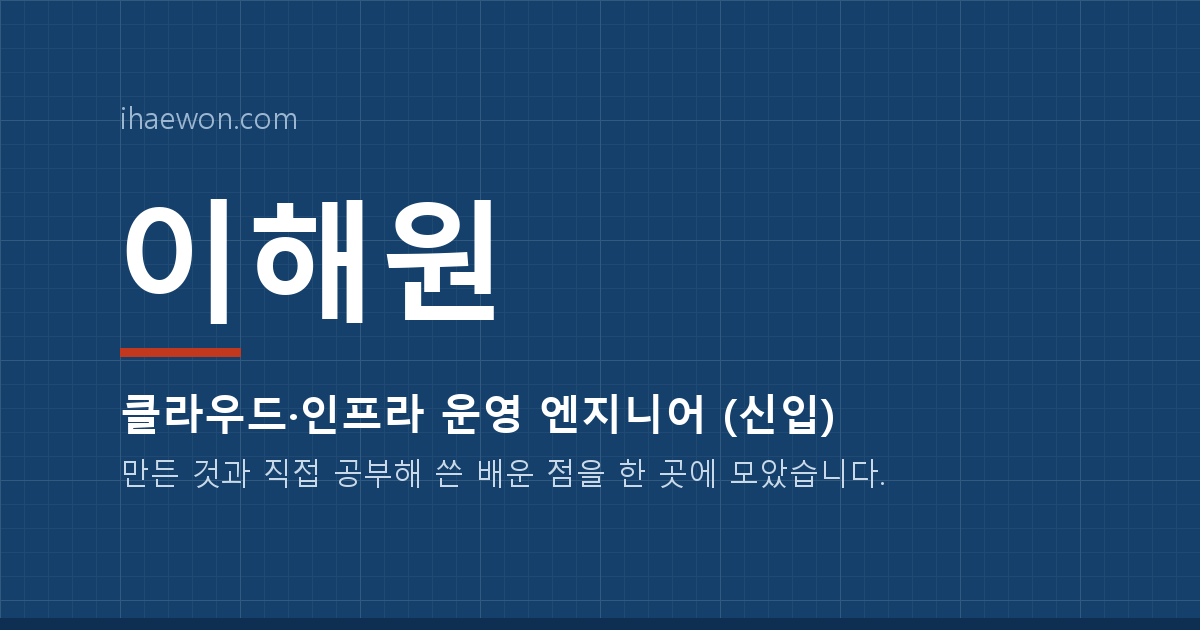
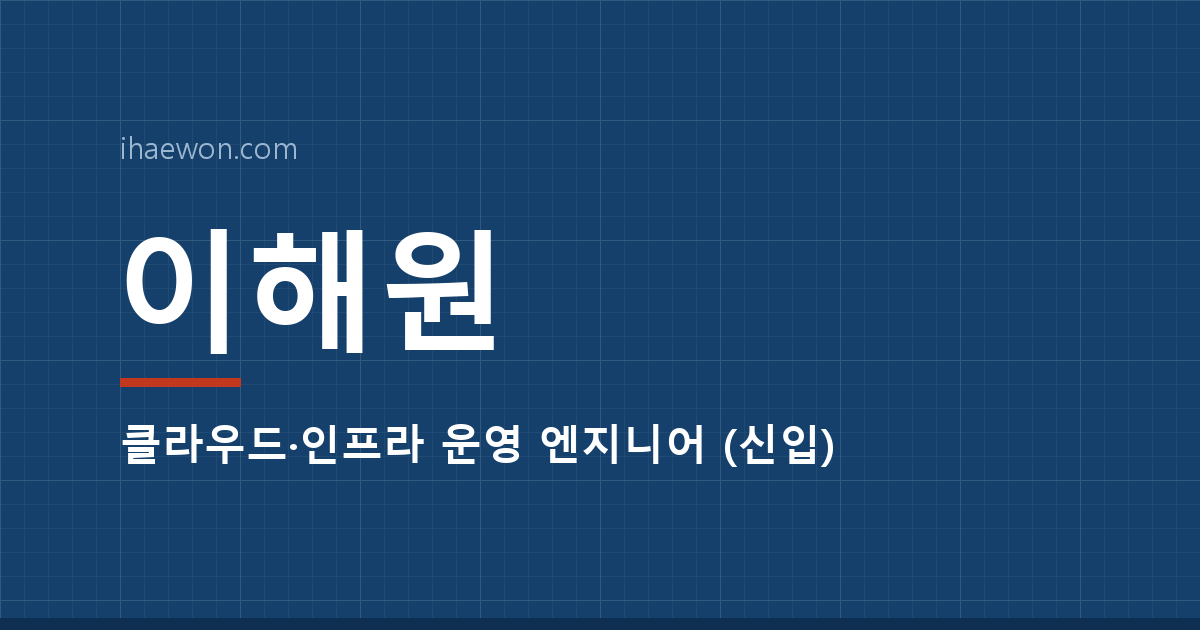
문구: 자기 지칭·포장 말투 정리, '직접' 남용과 영어식 줄표 줄이기
'이 사이트', '집 서버', '제 방', '지금 보고 계신 페이지'를 ihaewon.com·Proxmox 홈랩 같은
실제 이름으로 바꾸고, '직접'은 배운 점을 구분하는 곳에만 남겼다. 내용(사실)은 바꾸지 않았다.
문구 점검 AI 말투 후보 26 → 4.

Changed region(s): [[0.0925, 0.5127, 0.74, 0.7841], [0.0925, 0.3016, 0.4317, 0.573], [0.0925, 0.181, 0.2467, 0.2714]]

diff --git a/layouts/_partials/node.html b/layouts/_partials/node.html
@@ -8,7 +8,7 @@
   {{- if $p.Params.preview }}
   <p>{{ $p.Params.status }} · {{ $p.Params.role }}</p>
   {{- else }}
-  <p>{{ $p.Params.status }}{{ with $p.Params.period }} · {{ . }}{{ end }}{{ if $p.Params.here }} · {{ i18n "nodeHere" }}{{ end }}</p>
+  <p>{{ $p.Params.status }}{{ with $p.Params.period }} · {{ . }}{{ end }}</p>
   {{- end }}
   {{- if or $p.Params.relations $a.label }}
   <div class="rel">{{ with $a.label }}<a class="vmtag" href="#{{ . | urlize }}">{{ $a.via | default (i18n "vmVia") }} → <b>{{ . }}</b></a>{{ end }}{{ range $p.Params.relations }}<span>{{ . }}</span>{{ end }}</div>

diff --git a/docs/copy-review.md b/docs/copy-review.md
@@ -8,69 +8,25 @@
 
 ## 2. 오타 후보 (노션 원문 포함, 고칠지는 직접 판단) (8건)
 
-- `content/notes/aws-06-terraform/index.md:416` — **바뀜다** → 바뀐다
-- `content/notes/aws-08-docker-ecs/index.md:674` — **없앱다** → 없앤다
-- `content/notes/aws-08-docker-ecs/index.md:674` — **서브티** → 서브넷
-- `content/notes/aws-09-cloudwatch/index.md:73` — **바뀜다** → 바뀐다
-- `content/notes/aws-09-cloudwatch/index.md:145` — **곷** → 곧
-- `content/notes/aws-01-ec2-nginx/learned.md:9` — **설지** → 설치
-- `content/notes/aws-05-alb-asg/learned.md:8` — **트랙픽** → 트래픽
-- `content/notes/homelab-03-site-deploy/learned.md:35` — **되도** → 돼도
+- `content\notes\aws-06-terraform\index.md:416` — **바뀜다** → 바뀐다
+- `content\notes\aws-08-docker-ecs\index.md:674` — **없앱다** → 없앤다
+- `content\notes\aws-08-docker-ecs\index.md:674` — **서브티** → 서브넷
+- `content\notes\aws-09-cloudwatch\index.md:73` — **바뀜다** → 바뀐다
+- `content\notes\aws-09-cloudwatch\index.md:145` — **곷** → 곧
+- `content\notes\aws-01-ec2-nginx\learned.md:9` — **설지** → 설치
+- `content\notes\aws-05-alb-asg\learned.md:8` — **트랙픽** → 트래픽
+- `content\notes\homelab-03-site-deploy\learned.md:35` — **되도** → 돼도
 
-## 3. AI 말투 후보 (사이트 문구만) (26건)
+## 3. AI 말투 후보 (사이트 문구만) (4건)
 
-- `i18n/ko.toml:11` — '직접' 반복. 정말 강조할 곳만 남기기
-  > other = "이 사이트는 Hugo로 만들어, 제 방 미니PC의 Proxmox VM에서 직접 운영합니다. 상태 표시는 실시간 조회가 아니라 직접 갱신하는 기록입니다."
-- `i18n/ko.toml:67` — '직접' 반복. 정말 강조할 곳만 남기기
-  > other = "직접 확인한 결과"
-- `i18n/ko.toml:75` — '직접' 반복. 정말 강조할 곳만 남기기
-  > other = "직접 표시"
-- `i18n/ko.toml:99` — '직접' 반복. 정말 강조할 곳만 남기기
-  > other = "정리된 과정을 다시 보면서 제가 이해한 내용을 직접 썼습니다. 초록색 박스로 따로 표시했습니다."
-- `i18n/ko.toml:125` — '직접' 반복. 정말 강조할 곳만 남기기
+- `i18n\ko.toml:139` — '직접' 반복. 정말 강조할 곳만 남기기
   > other = "직접 작성"
-- `i18n/ko.toml:129` — '직접' 반복. 정말 강조할 곳만 남기기
+- `i18n\ko.toml:143` — '직접' 반복. 정말 강조할 곳만 남기기
   > other = "직접 쓴 배운 점"
-- `i18n/ko.toml:133` — '직접' 반복. 정말 강조할 곳만 남기기
+- `i18n\ko.toml:147` — '직접' 반복. 정말 강조할 곳만 남기기
   > other = "진행 과정은 실습 내용을 AI와 함께 정리했고, 배운 점은 그걸 보고 제가 이해한 대로 직접 썼습니다."
-- `i18n/ko.toml:137` — '직접' 반복. 정말 강조할 곳만 남기기
-  > other = "직접 정리한 배운 점"
-- `i18n/ko.toml:159` — '직접' 반복. 정말 강조할 곳만 남기기
-  > other = "직접 해본 것"
-- `hugo.toml:11` — '~해두었습니다' 반복은 소개문 티가 남
-  > intro = "제가 만든 것들이 서로 어떻게 이어지는지 그려두었습니다."
-- `hugo.toml:11` — 추상적인 표현. 무엇이 무엇으로 이어지는지 구체적으로
-  > intro = "제가 만든 것들이 서로 어떻게 이어지는지 그려두었습니다."
-- `content/projects/_index.md:3` — '직접' 반복. 정말 강조할 곳만 남기기
-  > summary: "직접 만들고 운영한 것들. 분류와 연결 관계로 볼 수 있습니다."
-- `content/projects/aws-infra/index.md:14` — '직접' 반복. 정말 강조할 곳만 남기기
-  > why: "콘솔에서 서버 한 대를 띄우는 것부터 시작해, 서버를 늘리고 코드로 만들고 컨테이너로 옮기고 감시하는 과정을 한 단계씩 직접 해봤습니다."
-- `content/projects/career-navi/index.md:20` — 영어식 줄표(em dash). 한국어 문장에선 쉼표나 마침표로
-  > - "역할 분담: 진단 결과 JSON 하나를 경계로 나눔 — 웹 서비스(FastAPI·DB·API·React)와 배포·운영(본인) / AI 파이프라인(데이터·LLM·RAG·판정 엔진·What-If, 팀원)"
-- `content/projects/homelab/index.md:15` — '직접' 반복. 정말 강조할 곳만 남기기
+- `content\projects\homelab\index.md:15` — '직접' 반복. 정말 강조할 곳만 남기기
   > why: "AWS에서 매니지드 서비스가 대신 해주던 서버, 네트워크, 접속 관리, 배포를 직접 구성해보면서 그 서비스들이 무엇을 대신하는지 확인하려고 시작했습니다."
-- `content/projects/portfolio-site/index.md:3` — '직접' 반복. 정말 강조할 곳만 남기기
-  > summary: "Hugo로 만든 정적 사이트를 홈랩 VM의 Docker Nginx 컨테이너에서 직접 운영합니다. 지금 보고 계신 페이지입니다."
-- `content/projects/portfolio-site/index.md:15` — '직접' 반복. 정말 강조할 곳만 남기기
-  > why: "만든 것과 겪은 문제를 한곳에 쌓아두고, 그 사이트 자체도 직접 운영하는 서버 위에 올리려고 만들었습니다."
-- `content/projects/portfolio-site/index.md:33` — '~해두었습니다' 반복은 소개문 티가 남
-  > 배포 과정은 홈랩 3단계 기록과 같은 작업이라, 자세한 내용은 그 기록에 모아두었습니다.
-- `content/projects/yeoulmok/index.md:15` — 영어식 줄표(em dash). 한국어 문장에선 쉼표나 마침표로
-  > - "두 단계 경보 설계 — 상류 1시간 누적 강수량 기준 초과 시 사전 경보, 하류 직전 30분 수위 상승폭 기준 초과 시 즉시 경보"
-- `content/projects/yeoulmok/index.md:20` — 영어식 줄표(em dash). 한국어 문장에선 쉼표나 마침표로
-  > - "쓸 공공데이터 조사 — 한강홍수통제소 수위·유량·댐 방류, 기상청 레이더강수량, 산림청 산악기상"
-- `content/projects/yeoulmok/index.md:22` — 영어식 줄표(em dash). 한국어 문장에선 쉼표나 마침표로
-  > - "강릉과학산업진흥원 『My AI 랩 프로젝트』 선정 — 12월 최종 결과물 제출까지 개발"
-- `content/projects/yeoulmok/index.md:23` — 영어식 줄표(em dash). 한국어 문장에선 쉼표나 마침표로
-  > - "개발 서버 구성 — 홈랩 Proxmox에 서비스 전용 VM을 따로 두고 Docker 설치, API 키는 저장소 밖 서버 파일에만 두고 저장소에는 이름만 적은 양식 파일을 올림, GitHub 접근은 이 저장소 전
-- `content/projects/yeoulmok/index.md:26` — 영어식 줄표(em dash). 한국어 문장에선 쉼표나 마침표로
-  > - "대상 지역을 강원 영서권으로 좁힘 — 강릉은 동해안 수계라 한강홍수통제소 관측망 밖인 것 확인"
-- `content/projects/yeoulmok/index.md:27` — 영어식 줄표(em dash). 한국어 문장에선 쉼표나 마침표로
-  > - "도달시간을 공식으로 못 박지 않기로 함 — 소양강 중권역에 6개 공식을 적용하면 10~46시간까지 벌어진다는 선행연구 확인"
-- `content/notes/_index.md:3` — '직접' 반복. 정말 강조할 곳만 남기기
-  > summary: "AWS와 홈랩을 직접 구축하면서 단계별로 남긴 실습 로그입니다."
-- `content/learned/_index.md:3` — '직접' 반복. 정말 강조할 곳만 남기기
-  > summary: "각 단계를 마치고 제가 직접 정리한 배운 점만 모았습니다. 진행 과정은 기록에, 이해한 내용은 여기에 있습니다."
 
 ## 4. [작성 필요] 남은 곳 (0건)
 

diff --git a/content/projects/yeoulmok/index.md b/content/projects/yeoulmok/index.md
@@ -17,19 +17,19 @@ alsoOn:
 brief:
   why: "계곡에서는 이용자가 있는 곳에 비가 오지 않아도 상류 강우로 물이 불어납니다. 위험이 시작되는 지점과 피해가 생기는 지점이 떨어져 있어서, 현장에서 하늘과 물만 보고는 알아차릴 수 없습니다. 이미 공개된 관측 데이터로 그 시간차를 메울 수 있는지 확인하려고 시작했습니다."
   did:
-    - "두 단계 경보 설계 — 상류 1시간 누적 강수량 기준 초과 시 사전 경보, 하류 직전 30분 수위 상승폭 기준 초과 시 즉시 경보"
+    - "두 단계 경보 설계: 상류 1시간 누적 강수량 기준 초과 시 사전 경보, 하류 직전 30분 수위 상승폭 기준 초과 시 즉시 경보"
     - "절대 수위 대신 상승폭을 보도록 판정 기준 정의. 같은 수위도 평시에 머문 것과 30분 만에 올라온 것은 다르게 처리"
     - "경보 화면에 관측소명·관측 시각·실측값·기준값을 함께 띄우도록 설계. 숫자 없는 '위험' 표시는 쓰지 않음"
     - "관측 지연·결측 시 마지막 값을 현재값으로 쓰지 않고 '자료 지연 · 판정 불가'로 표시, 결측만으로 기발령 경보를 해제하지 않도록 규칙 정의"
     - "판정은 규칙 엔진, 설명은 생성형 AI로 역할 분리. AI 응답의 수치·단계가 원자료와 일치하는지 검사하고 실패 시 고정 문구로 대체"
-    - "쓸 공공데이터 조사 — 한강홍수통제소 수위·유량·댐 방류, 기상청 레이더강수량, 산림청 산악기상"
+    - "쓸 공공데이터 조사: 한강홍수통제소 수위·유량·댐 방류, 기상청 레이더강수량, 산림청 산악기상"
     - "2026 AI·디지털 기반 사회문제 해결 챌린지 출품(서류 탈락) 후 설계를 보완해 이어가는 중"
-    - "강릉과학산업진흥원 『My AI 랩 프로젝트』 선정 — 12월 최종 결과물 제출까지 개발"
-    - "개발 서버 구성 — 홈랩 Proxmox에 서비스 전용 VM을 따로 두고 Docker 설치, API 키는 저장소 밖 서버 파일에만 두고 저장소에는 이름만 적은 양식 파일을 올림, GitHub 접근은 이 저장소 전용 배포 키로 제한"
+    - "강릉과학산업진흥원 『My AI 랩 프로젝트』 선정, 12월 최종 결과물 제출까지 개발"
+    - "개발 서버 구성: 홈랩 Proxmox에 서비스 전용 VM을 따로 두고 Docker 설치, API 키는 저장소 밖 서버 파일에만 두고 저장소에는 이름만 적은 양식 파일을 올림, GitHub 접근은 이 저장소 전용 배포 키로 제한"
   verified:
     - "한강홍수통제소·기상청·산림청 API가 전부 무료이고 개발계정 일 1,000건 한도인 것 확인"
-    - "대상 지역을 강원 영서권으로 좁힘 — 강릉은 동해안 수계라 한강홍수통제소 관측망 밖인 것 확인"
-    - "도달시간을 공식으로 못 박지 않기로 함 — 소양강 중권역에 6개 공식을 적용하면 10~46시간까지 벌어진다는 선행연구 확인"
+    - "대상 지역을 강원 영서권으로 좁힘. 강릉은 동해안 수계라 한강홍수통제소 관측망 밖인 것 확인"
+    - "도달시간을 공식으로 못 박지 않기로 함. 소양강 중권역에 6개 공식을 적용하면 10~46시간까지 벌어진다는 선행연구 확인"
     - "영서권 실제 사고 사례 확인 (2025.7 원주 판부면, 2019.8 횡성 갑천면)"
     - "개발 서버에서 한강홍수통제소(수위 관측소 제원)와 기상청(관측 강수·수치모델 예보) API를 실제로 호출해 응답 확인"
     - "기상청 관측값은 요청 시각보다 약 4분 늦게 올라오고 결측은 -99.9로 온다는 것 확인 → 수집은 현재 시각보다 몇 분 앞을 기준으로 하고, 결측은 0이 아니라 판정 불가로 처리"

diff --git a/content/projects/homelab/index.md b/content/projects/homelab/index.md
@@ -22,7 +22,7 @@ brief:
     - "Prometheus·Grafana로 서버 통합 모니터링(처음 4대 기준), 서버다운·디스크·메모리·CPU 알림 규칙"
   verified:
     - "집 밖 맥북에서 Tailscale 주소로 각 VM에 SSH 접속"
-    - "이 사이트가 VM 100의 Docker Nginx 컨테이너에서 서빙됨"
+    - "ihaewon.com이 VM 100의 Docker Nginx 컨테이너에서 서빙됨"
     - "공유기 포트를 열지 않고 Cloudflare Tunnel로 ihaewon.com 외부 공개, 외부 네트워크에서 접속 확인"
     - "Prometheus targets 화면에서 서버 4대 전부 UP, 울리는 알림 0 확인 (10.13)"
 servers:
@@ -33,7 +33,7 @@ servers:
     state: "가동 중"
   access: "Tailscale 내부망 · 공유기 포트 개방 없음"
   vms:
-    - { id: "VM 100", name: "portfolio", spec: "4코어 / RAM 4GB / 디스크 38GB", role: "이 사이트를 Docker Nginx로 서빙. 처음 만든 VM. 미니PC RAM 16GB를 다른 VM과 나눠 써야 해서 4GB만 배정. 설치 기본값(LVM)이 루트를 18.5GB만 잡아서 lvextend로 38GB까지 늘림. Tailscale·SSH 키 로그인·Docker를 세팅하고 스냅샷을 남긴 뒤 이후 VM도 같은 순서로 만듦.", here: true }
+    - { id: "VM 100", name: "portfolio", spec: "4코어 / RAM 4GB / 디스크 38GB", role: "ihaewon.com을 Docker Nginx로 서빙. 처음 만든 VM. 미니PC RAM 16GB를 다른 VM과 나눠 써야 해서 4GB만 배정. 설치 기본값(LVM)이 루트를 18.5GB만 잡아서 lvextend로 38GB까지 늘림. Tailscale·SSH 키 로그인·Docker를 세팅하고 스냅샷을 남긴 뒤 이후 VM도 같은 순서로 만듦.", here: true }
     - { id: "VM 101", name: "산학 서버", spec: "4코어 / RAM 6GB / 디스크 39GB", role: "산학 프로젝트 팀 테스트 서버. 팀원은 이 VM에만 접속. 10.28 팀 서버 이전 후 중지. 부하테스트를 해야 해서 portfolio보다 메모리를 6GB로 더 줌. portfolio에서 겪은 걸 반영해 설치 때 LVM을 끄고 처음부터 39GB 전부 사용. 공개 데이터만 두고, 환자 6~100명 부하테스트와 Prometheus·Grafana 모니터링을 이 VM에서 진행.", off: true }
     - { id: "VM 102", name: "paper", spec: "2코어 / RAM 1GB / 디스크 20GB", role: "논문 실측 데이터 수집 (cron). 10.26 수집 종료 후 중지. cron으로 10분마다 API를 부르는 일 하나만 해서 자원을 최소로 배정. 실측 기록이 다른 작업에 섞이지 않게 VM을 따로 둠. 수집을 끝낸 뒤 데이터를 백업하고 중지, 학술대회 발표 후 삭제 예정.", off: true }
     - { id: "VM 103", name: "careernavi", spec: "2코어 / RAM 4GB / 디스크 28GB", role: "커리어 내비 팀 개발 서버. 팀원 계정과 Tailscale 공유는 이 VM 하나만. RAM 4GB는 FastAPI·Nginx·PostgreSQL에 한국어 임베딩 모델(약 2GB)과 여유분을 더해 잡음. 루트가 13.67GB만 잡혀 있어 lvextend로 28GB까지 늘림. docker 그룹이 사실상 관리자 권한이라 이 VM에는 이 프로젝트만 둠.", }

diff --git a/docs/design-handoff.md b/docs/design-handoff.md
@@ -92,3 +92,4 @@
 - 6차: 홈 순서를 첫 화면 → 프로젝트 지도 → 직접 쓴 배운 점 → 쓰는 도구로 바꿨다. '직접 쓴 배운 점'(`learned-home.html`)은 일하는 방식 두 문장을 머리말로 두고, 공개 프로젝트마다 가장 최근 learned.md를 하나씩(최대 4개) 보여준다. 노션에서 배운 점을 추가하면 자동으로 바뀐다. 기존 `principles.html`은 삭제.
 - 7차: 홈 배운 점 카드는 21편을 모두 HTML에 넣고, 새로고침마다 작은 스크립트가 무작위로 4편을 고른다(한 프로젝트 최대 2편, `data-show`/`data-per`). 스크립트가 안 돌면 프로젝트마다 최근 1편. 프로젝트 상세에는 제목 아래 '배운 점 n편 바로가기'와 오른쪽 맨 위 '직접 쓴 배운 점' 상자를 추가했다(배운 점이 있는 프로젝트만).
 - 8차: 링크 미리보기용 og 태그(`baseof.html`)와 공유 이미지 `assets/img/og.png`(1200×630, 청사진 바탕·이름·직무, 맑은 고딕으로 생성) 추가. 대표 이미지가 없을 때 카카오톡이 증명사진을 가져가던 문제 해결.
+- 9차(문구): 'GPT스럽다'는 피드백. '이 사이트·집 서버·제 방·지금 보고 계신 페이지' 같은 자기 지칭과 포장 말투를 사실 그대로의 이름(ihaewon.com, Proxmox 홈랩 VM 100)으로 바꿨다. '직접'은 배운 점 구분(배지·칸 이름·안내문)과 홈랩 소개에만 남기고, 프로젝트 글의 영어식 줄표(—)는 쉼표·마침표·쌍점으로 바꿨다. check_copy AI 말투 후보 26 → 4(남은 4개는 의도적). 공유 이미지에서 소개 문장 삭제.

diff --git a/content/projects/portfolio-site/index.md b/content/projects/portfolio-site/index.md
@@ -1,6 +1,6 @@
 ---
-title: "이 포트폴리오 사이트"
-summary: "Hugo로 만든 정적 사이트를 홈랩 VM의 Docker Nginx 컨테이너에서 직접 운영합니다. 지금 보고 계신 페이지입니다."
+title: "ihaewon.com 포트폴리오 사이트"
+summary: "Hugo로 만든 정적 사이트(ihaewon.com)를 홈랩 VM 100의 Docker Nginx 컨테이너에서 운영합니다."
 role: "개인 프로젝트"
 status: "진행 중"
 category: "인프라"
@@ -12,7 +12,7 @@ mapLabel: "vm 100"
 runsOn: "homelab"
 here: true
 brief:
-  why: "만든 것과 겪은 문제를 한곳에 쌓아두고, 그 사이트 자체도 직접 운영하는 서버 위에 올리려고 만들었습니다."
+  why: "만든 것과 겪은 문제를 한곳에 쌓아두고, 그 사이트도 홈랩 서버에서 운영하려고 만들었습니다."
   did:
     - "Hugo로 사이트 구성, GitHub 저장소로 관리"
     - "VM 100에서 빌드 결과를 Nginx 컨테이너가 읽기 전용으로 서빙"
@@ -30,4 +30,4 @@ draft: false
 
 ## 개요
 
-배포 과정은 홈랩 3단계 기록과 같은 작업이라, 자세한 내용은 그 기록에 모아두었습니다.
+배포 과정은 홈랩 3단계 기록과 같은 작업이라 자세한 내용은 그 기록에 있습니다.

diff --git a/content/about.md b/content/about.md
@@ -46,7 +46,7 @@ profile:
   activities:
     - { period: "2026.09 ~", title: "AI 산학프로젝트 (팀장)", note: "서버 구조(TCP 수신, Redis Streams, 워커) 설계" }
     - { period: "2026.09 ~", title: "융합캡스톤디자인 (Frozen Stiff)", note: "게임 접속 솔루션 검증, 플레이 기록 수집 서버, 빌드·배포 자동화 담당" }
-    - { period: "2026.09 ~", title: "홈 서버 운영, 이 포트폴리오 사이트", note: "Proxmox 위에 Ubuntu VM을 운영하고, Tailscale 원격 접속과 Docker Nginx·Cloudflare Tunnel로 사이트를 공개" }
+    - { period: "2026.09 ~", title: "Proxmox 홈랩 운영, ihaewon.com 포트폴리오 사이트", note: "Proxmox 위에 Ubuntu VM을 운영하고, Tailscale 원격 접속과 Docker Nginx·Cloudflare Tunnel로 사이트를 공개" }
     - { period: "2026.07 ~", title: "AWS 인프라 구축 실습", note: "EC2·Nginx부터 VPC, ALB, Terraform, ECS Fargate, CloudWatch까지. 장애를 로그로 추적해 기록" }
     - { period: "2026 여름", title: "연세대 AI부트캠프 의료AI응용", note: "비정형데이터분석, AI기반건강보험빅데이터분석, 의료버티컬AI에이전트 수료" }
 links:

diff --git a/content/projects/career-navi/index.md b/content/projects/career-navi/index.md
@@ -23,7 +23,7 @@ brief:
     - "LLM은 경험 카드화와 역량 추출만 맡기고, 충족 여부와 적합도 점수는 규칙 기반 코드로 계산하도록 설계 (환각 방지, 점수 기준 공개)"
     - "모든 판정에 '공고 문장 – 내 경험 문장' 근거를 함께 보여주고, 근거가 부족하면 '판단 보류'로 안내하도록 설계"
     - "검증 계획: 실제 공고 50건의 역량 추출 결과를 사람이 분류한 결과와 비교, 재학생 사용성 테스트"
-    - "역할 분담: 진단 결과 JSON 하나를 경계로 나눔 — 웹 서비스(FastAPI·DB·API·React)와 배포·운영(본인) / AI 파이프라인(데이터·LLM·RAG·판정 엔진·What-If, 팀원)"
+    - "역할 분담: 진단 결과 JSON 하나를 경계로 나눔. 웹 서비스(FastAPI·DB·API·React)와 배포·운영(본인) / AI 파이프라인(데이터·LLM·RAG·판정 엔진·What-If, 팀원)"
   verified:
     - "아직 만든 화면이나 서버는 없고, 신청서와 설계까지 진행"
 steps:

diff --git a/content/projects/aws-infra/index.md b/content/projects/aws-infra/index.md
@@ -11,7 +11,7 @@ weight: 1
 mapLabel: "aws"
 relations: ["다음 단계 → 홈랩"]
 brief:
-  why: "콘솔에서 서버 한 대를 띄우는 것부터 시작해, 서버를 늘리고 코드로 만들고 컨테이너로 옮기고 감시하는 과정을 한 단계씩 직접 해봤습니다."
+  why: "콘솔에서 서버 한 대를 띄우는 것부터 시작해, 서버를 늘리고 코드로 만들고 컨테이너로 옮기고 감시하는 과정을 한 단계씩 해봤습니다."
   did:
     - "EC2에 Nginx 배포, 일부러 장애 4종을 만들어 로그로 원인 찾기"
     - "VPC·보안 그룹·탄력적 IP로 접근 범위 좁히기"

diff --git a/content/learned/_index.md b/content/learned/_index.md
@@ -1,4 +1,4 @@
 ---
 title: "배운 점"
-summary: "각 단계를 마치고 제가 직접 정리한 배운 점만 모았습니다. 진행 과정은 기록에, 이해한 내용은 여기에 있습니다."
+summary: "각 단계를 마치고 제가 정리한 배운 점만 모았습니다. 진행 과정은 실습 로그에, 이해한 내용은 여기에 있습니다."
 ---

diff --git a/content/projects/_index.md b/content/projects/_index.md
@@ -1,5 +1,5 @@
 ---
 title: "프로젝트"
-summary: "직접 만들고 운영한 것들. 분류와 연결 관계로 볼 수 있습니다."
+summary: "만들고 운영한 프로젝트입니다. 분류와 연결 관계로 볼 수 있습니다."
 aliases: ["/posts/"]
 ---

diff --git a/content/notes/_index.md b/content/notes/_index.md
@@ -1,4 +1,4 @@
 ---
 title: "실습 로그"
-summary: "AWS와 홈랩을 직접 구축하면서 단계별로 남긴 실습 로그입니다."
+summary: "AWS와 홈랩을 구축하면서 단계별로 남긴 실습 로그입니다."
 ---
